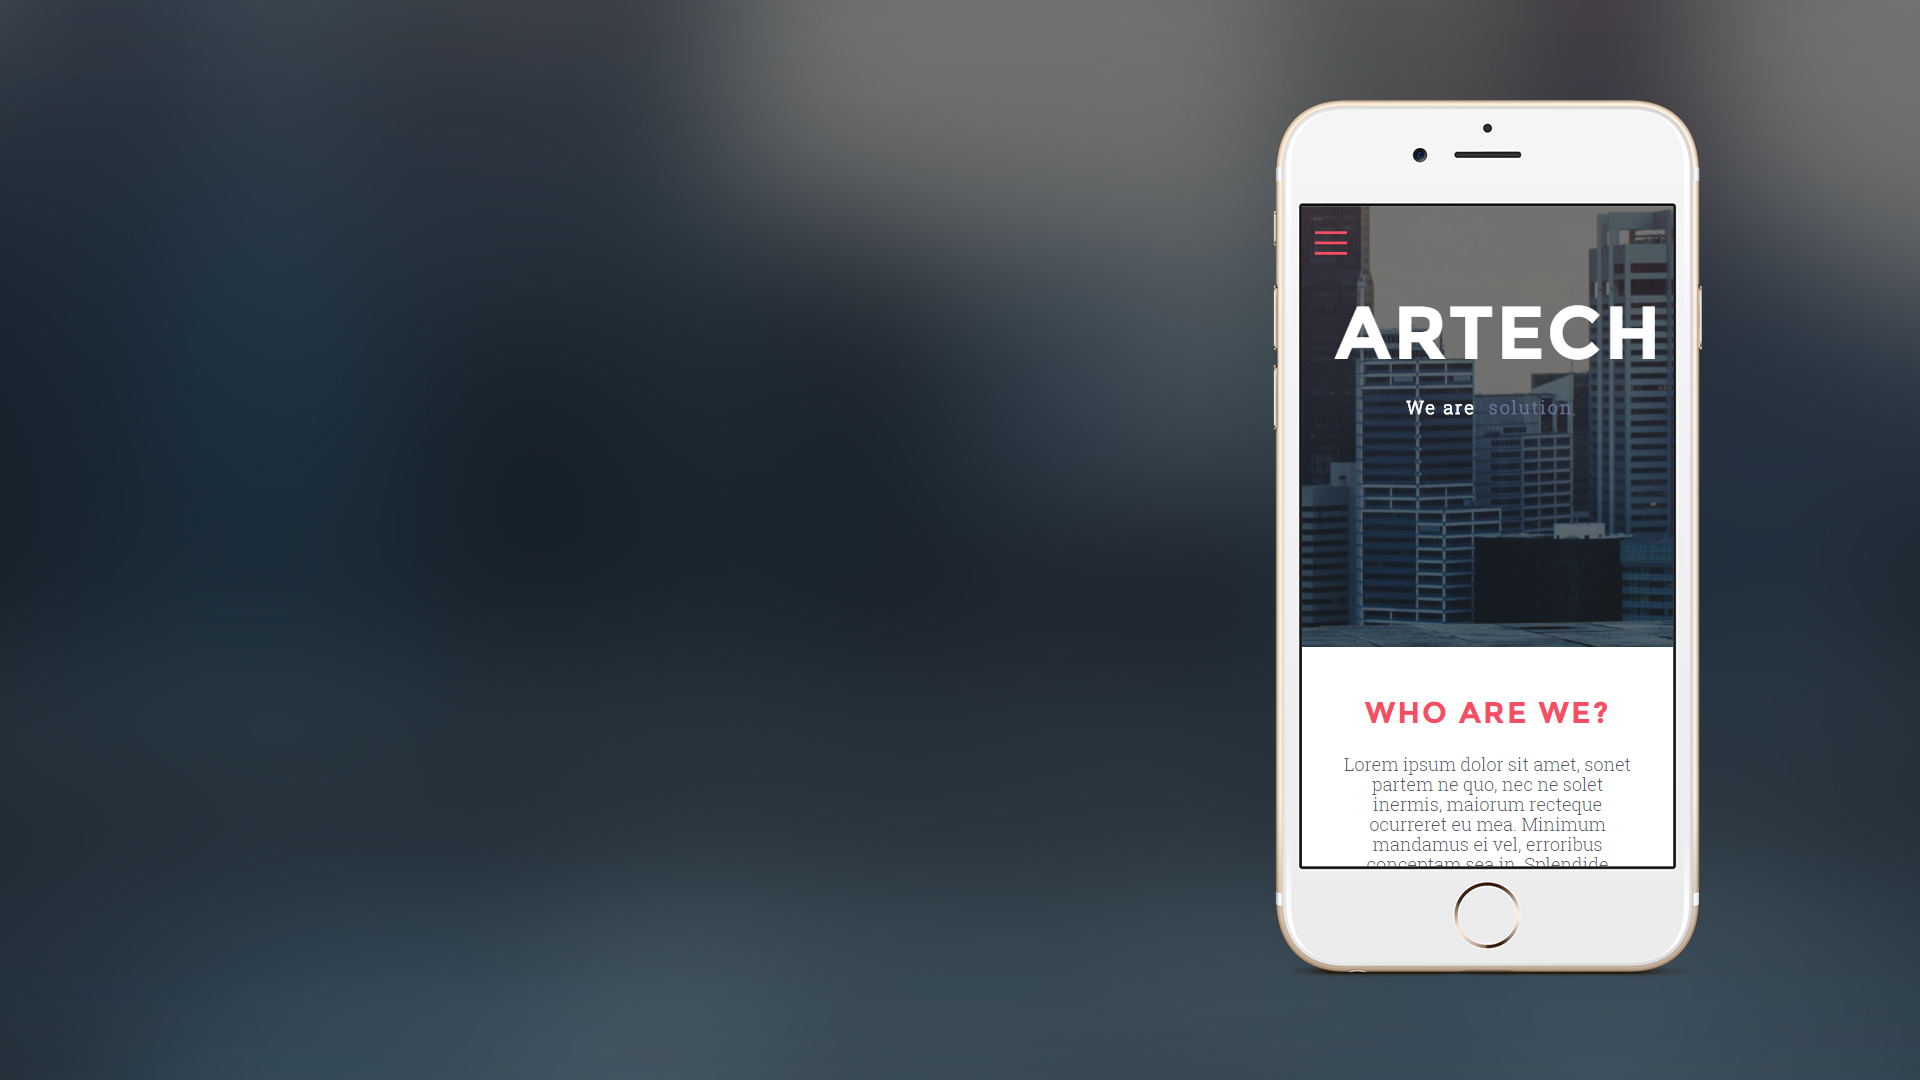
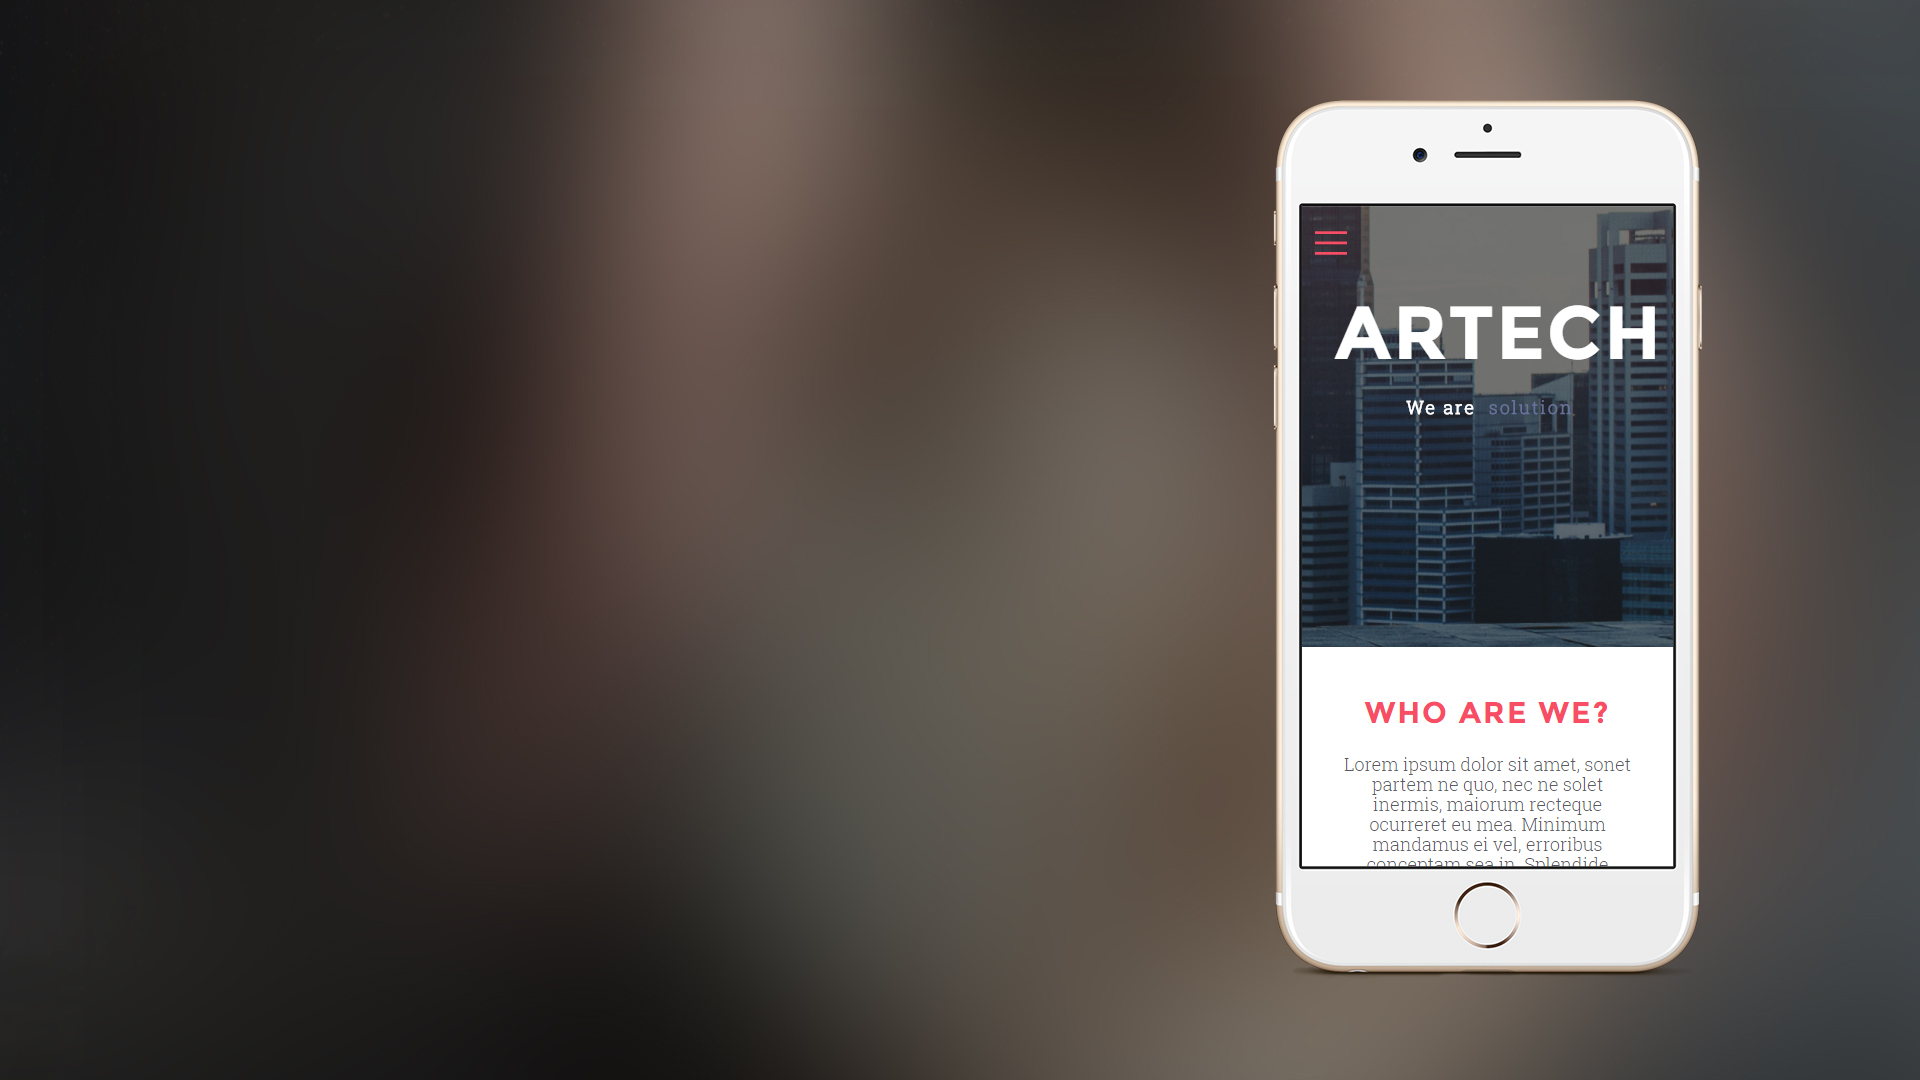
Updated Images

diff --git a/src/app/Side/index.js b/src/app/Side/index.js
@@ -51,7 +51,7 @@ class Side extends Component {
                 link: '/projects/portfolio'
             },
             {
-                theme: '#757d7f',
+                theme: '#908076',
                 letter: 'P',
                 heading: 'Post',
                 description: [
@@ -63,7 +63,7 @@ class Side extends Component {
             },
 
             {
-                theme: '#676767',
+                theme: '#867d73',
                 letter: 'T',
                 heading: 'Artech',
                 description: [
